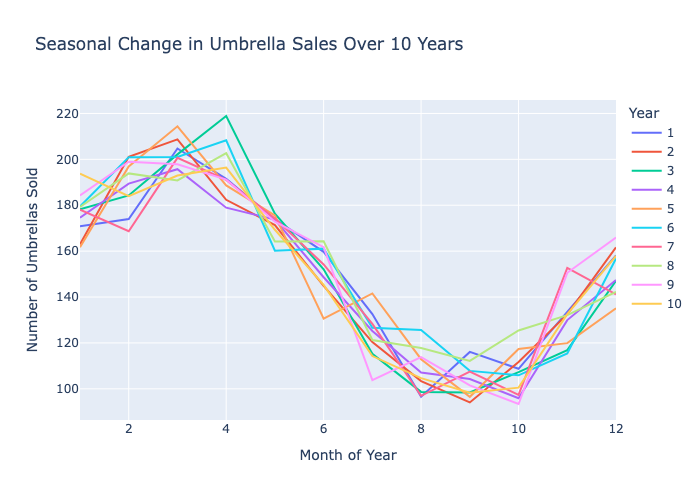
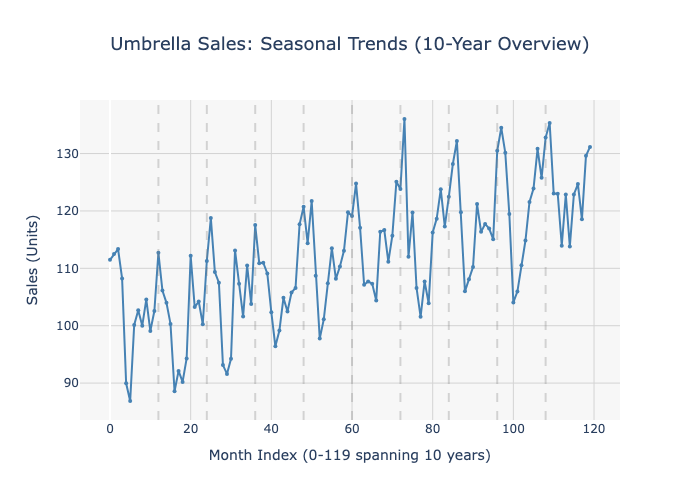
doc: asciinema links

diff --git a/examples/hierarchical.py b/examples/hierarchical.py
@@ -6,6 +6,8 @@ and visualization. A sub-agent's task is the orchestrator's fn. The signature
 is the contract between them.
 
 Bulk data and plots flow between agents without special handling.
+
+https://asciinema.org/a/Ce5oarxRbu58YsE5Kk5URiFu0
 """
 
 import random
@@ -14,11 +16,9 @@ import numpy as np
 import plotly.graph_objects as go
 
 from agex import Agent, connect_llm, pprint_tokens
-from agex.helpers import register_numpy, register_plotly
+from agex.helpers import register_numpy, register_pandas, register_plotly
 
-llm_client = connect_llm(
-    provider="openai", model="gpt-5-nano", reasoning_effort="medium"
-)
+llm_client = connect_llm(provider="anthropic", model="claude-haiku-4-5")
 
 
 # define the data-making agent and give it numpy and random
@@ -42,6 +42,7 @@ plotty = Agent(
 # use helpers for our plotting agent
 register_plotly(plotty)
 register_numpy(plotty)
+register_pandas(plotty)
 
 # define the orchestrator agent, no special modules are needed
 orchestrator = Agent(
@@ -87,6 +88,7 @@ def main():
     plot = idea_to_plot(idea, on_token=pprint_tokens)
     plot.write_image("examples/seasonal.png")
     # see examples/seasonal.png
+    print("Plot saved to examples/seasonal.png")
 
 
 if __name__ == "__main__":

diff --git a/examples/db.py b/examples/db.py
@@ -5,10 +5,7 @@ Agent works directly with sqlite3.Connection and Cursor objects - no wrapper
 classes needed. Demonstrates stateful object management with live database
 connections.
 
-Note: This example uses versioned storage for state checkpointing and cross-process
-persistence, which requires method chaining for unpickleable objects like cursors.
-The agent is coached via detailed primer instructions on how to work within these
-constraints effectively.
+https://asciinema.org/a/LM0phpZWktTueeenfOuZBIp5r
 """
 
 import sqlite3
@@ -21,9 +18,7 @@ from agex import Agent, Versioned, connect_llm, pprint_tokens
 db = Agent(
     name="db_agent",
     primer=PRIMER,
-    llm_client=connect_llm(
-        provider="openai", model="gpt-5-nano", reasoning_effort="low"
-    ),
+    llm_client=connect_llm(provider="anthropic", model="claude-haiku-4-5"),
 )
 
 # create an in-memory database and register the connection with the agent

diff --git a/examples/evaluator_optimizer.py b/examples/evaluator_optimizer.py
@@ -7,6 +7,8 @@ For more details:
 - https://langchain-ai.github.io/langgraph/tutorials/workflows/#evaluator-optimizer
 - https://github.com/lastmile-ai/mcp-agent?tab=readme-ov-file#evaluator-optimizer
 - https://www.anthropic.com/engineering/building-effective-agents
+
+https://asciinema.org/a/ysCzHbopaKO9s5UPhQJsVWA4o
 """
 
 from dataclasses import dataclass
@@ -14,7 +16,7 @@ from typing import Literal
 
 from agex import Agent, connect_llm, pprint_tokens
 
-client = connect_llm(provider="openai", model="gpt-5-nano", reasoning_effort="low")
+client = connect_llm(provider="anthropic", model="claude-haiku-4-5")
 
 optimizer = Agent(
     name="optimizer", primer="You create and hone jokes.", llm_client=client

diff --git a/examples/mathy.py b/examples/mathy.py
@@ -3,6 +3,8 @@ Mathematical Computing
 
 Agent performs calculations using Python's math module and works with numerical
 data. Demonstrates basic agent-module integration for computational tasks.
+
+https://asciinema.org/a/KDPJD3bzk6dsN0VS6HtLQ1223
 """
 
 import math
@@ -12,9 +14,7 @@ from agex import Agent, connect_llm, pprint_tokens
 mathy_agent = Agent(
     name="mathy_agent",
     primer="You are an expert at solving math problems.",
-    llm_client=connect_llm(
-        provider="openai", model="gpt-5-nano", reasoning_effort="minimal"
-    ),
+    llm_client=connect_llm(provider="anthropic", model="claude-haiku-4-5"),
 )
 
 # medium viz shows function sigs but not docs to save context

diff --git a/examples/funcy.py b/examples/funcy.py
@@ -3,6 +3,8 @@ Function Generation
 
 Agent generates executable Python functions that can be called directly in your
 program. Demonstrates runtime interoperability beyond JSON serialization.
+
+https://asciinema.org/a/ZqYiNf6AJoskeVkcjPQAalgba
 """
 
 import math
@@ -13,9 +15,7 @@ from agex import Agent, Versioned, connect_llm, pprint_tokens
 funcy_agent = Agent(
     name="funcy",
     primer="You are great at providing custom functions to the user.",
-    llm_client=connect_llm(
-        provider="openai", model="gpt-5-nano", reasoning_effort="minimal"
-    ),
+    llm_client=connect_llm(provider="anthropic", model="claude-haiku-4-5"),
 )
 funcy_agent.module(math, visibility="low")
 

diff --git a/docs/examples/db.md b/docs/examples/db.md
@@ -61,6 +61,7 @@ print(conn.execute("SELECT COUNT(*) FROM users").fetchone()[0])
 
 Working with live objects like a database connection while also using [`Versioned`](../api/state.md) state is one of `agex`'s most compelling features. Unpicklable objects (like cursors) are automatically handled - they work naturally in single-turn use, and provide clear error messages if accidentally reused across turns.
 
+[![asciicast](https://asciinema.org/a/LM0phpZWktTueeenfOuZBIp5r.svg)](https://asciinema.org/a/LM0phpZWktTueeenfOuZBIp5r)
 —
 
 Source: [https://github.com/ashenfad/agex/blob/main/examples/db.py](https://github.com/ashenfad/agex/blob/main/examples/db.py)

diff --git a/docs/examples/hierarchical.md b/docs/examples/hierarchical.md
@@ -87,6 +87,7 @@ plot.show() # or plot.write_image(...)
 -   **Clear Separation of Concerns:** Each agent has a targeted primer and a specific set of capabilities, helping agents focus their skills.
 -   **Seamless Data Flow:** Complex, rich objects like NumPy arrays and Plotly Figures flow directly between agents with no need for intermediate JSON serialization or wrapper tools.
 
+[![asciicast](https://asciinema.org/a/Ce5oarxRbu58YsE5Kk5URiFu0.svg)](https://asciinema.org/a/Ce5oarxRbu58YsE5Kk5URiFu0)
 ---
 
 Source: [https://github.com/ashenfad/agex/blob/main/examples/hierarchical.py](https://github.com/ashenfad/agex/blob/main/examples/hierarchical.py)

diff --git a/docs/examples/mathy.md b/docs/examples/mathy.md
@@ -46,6 +46,8 @@ Why this works:
 - Visibility control: signatures are enough for well-known libs.
 - Minimal ceremony: you define intent (signature + docstring); the agent provides implementation at runtime.
 
+[![asciicast](https://asciinema.org/a/KDPJD3bzk6dsN0VS6HtLQ1223.svg)](https://asciinema.org/a/KDPJD3bzk6dsN0VS6HtLQ1223)
+
 —
 
 Source: [https://github.com/ashenfad/agex/blob/main/examples/mathy.py](https://github.com/ashenfad/agex/blob/main/examples/mathy.py)

diff --git a/docs/examples/funcy.md b/docs/examples/funcy.md
@@ -76,6 +76,7 @@ Why this is different:
 - Works with your existing libraries — the agent composes them in code.
 - Persistent context allows progressive capability building.
 
+[![asciicast](https://asciinema.org/a/ZqYiNf6AJoskeVkcjPQAalgba.svg)](https://asciinema.org/a/ZqYiNf6AJoskeVkcjPQAalgba)
 —
 
 Source: [https://github.com/ashenfad/agex/blob/main/examples/funcy.py](https://github.com/ashenfad/agex/blob/main/examples/funcy.py)

diff --git a/docs/examples/evaluator_optimizer.md b/docs/examples/evaluator_optimizer.md
@@ -58,6 +58,7 @@ Why it’s useful:
 - Typed feedback loop via a shared `Review` dataclass
 - Works well for refinement, critique, and QA
 
+[![asciicast](https://asciinema.org/a/ysCzHbopaKO9s5UPhQJsVWA4o.svg)](https://asciinema.org/a/ysCzHbopaKO9s5UPhQJsVWA4o)
 —
 
 Source: [https://github.com/ashenfad/agex/blob/main/examples/evaluator_optimizer.py](https://github.com/ashenfad/agex/blob/main/examples/evaluator_optimizer.py)
